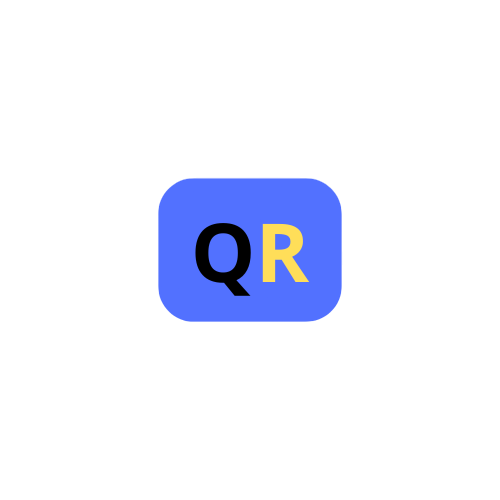
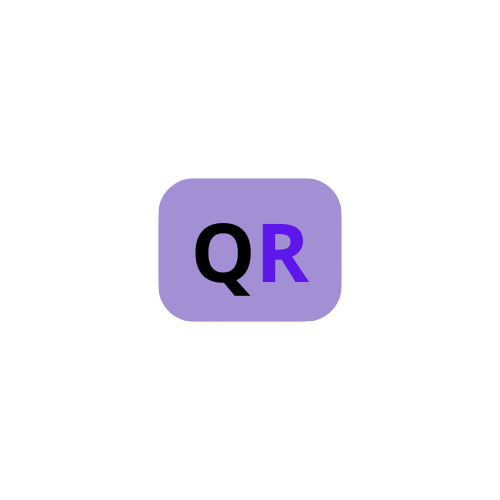
asistencia-final
se termina de implementar la estética de acuerdo a la paleta de colores de la aplicación.

Changed region(s): [[0.3, 0.33, 0.69, 0.66]]

diff --git a/src/app/pages/horario/horario.page.scss b/src/app/pages/horario/horario.page.scss
@@ -1,27 +1,29 @@
 ion-content {
-  --background: #000000;
+  --background: none;
 
   .schedule-container {
     padding: 16px;
 
     .class-card {
-      background-color: #1c1c1e;
-      border: 1px solid #3a3a3c;
-      color: #ffffff;
+      background-color: #1c1c1e; 
+      border: 1px solid #3a3a3c; 
+      color: #a390d4; 
       margin-bottom: 15px;
+      border-radius: 8px; 
 
       ion-card-header {
-        background-color: #2c2c2e;
+        background-color: #2c2c2e; 
         border-bottom: 1px solid #3a3a3c;
         padding: 10px;
 
         ion-card-title {
           font-size: 1.2rem;
           font-weight: bold;
+          color: #a390d4; 
 
           .in-progress {
             font-size: 1rem;
-            color: #50fa7b;
+            color: #a390d4; 
           }
         }
       }
@@ -38,11 +40,11 @@ ion-content {
           ion-icon {
             margin-right: 8px;
             font-size: 1rem;
-            color: #ebf300; //Color del icono :v
+            color: #a390d4; 
           }
 
           strong {
-            color: #ffffff;
+            color: #ffffff; 
           }
         }
       }
@@ -50,9 +52,13 @@ ion-content {
 
     .no-schedule {
       text-align: center;
-      color: #ffffff;
+      color: #ffffff; 
       font-size: 1.2rem;
       margin-top: 20px;
     }
+  }
+
+  ion-icon {
+    color: #a390d4; 
   }
 }

diff --git a/src/app/pages/ver-solicitudes/ver-solicitudes.page.ts b/src/app/pages/ver-solicitudes/ver-solicitudes.page.ts
@@ -1,5 +1,5 @@
 import { Component, OnInit } from '@angular/core';
-import { AuthService } from '../../services/auth.service'; // Asegúrate de importar el servicio AuthService
+import { AuthService } from '../../services/auth.service'; 
 
 @Component({
   selector: 'app-ver-solicitudes',
@@ -7,12 +7,12 @@ import { AuthService } from '../../services/auth.service'; // Asegúrate de impo
   styleUrls: ['./ver-solicitudes.page.scss'],
 })
 export class VerSolicitudesPage implements OnInit {
-  solicitudes: any[] = []; // Lista de solicitudes cargadas
+  solicitudes: any[] = []; 
 
   constructor(private authService: AuthService) {}
 
   ngOnInit() {
-    this.cargarSolicitudes(); // Cargar las solicitudes al iniciar
+    this.cargarSolicitudes(); 
   }
 
   cargarSolicitudes() {
@@ -25,8 +25,8 @@ export class VerSolicitudesPage implements OnInit {
   }
 
   limpiarSolicitudes() {
-    localStorage.removeItem('solicitudes'); // Borra todas las solicitudes del localStorage
-    this.solicitudes = []; // Limpia la lista mostrada
+    localStorage.removeItem('solicitudes'); 
+    this.solicitudes = []; 
     alert('Todas las solicitudes han sido eliminadas.');
   }
 }

diff --git a/src/app/pages/actualizar-datos/actualizar-datos.page.ts b/src/app/pages/actualizar-datos/actualizar-datos.page.ts
@@ -18,14 +18,15 @@ export class ActualizarDatosPage implements OnInit {
   ) {}
 
   async ngOnInit() {
-   
     this.userName = await this.storageService.get('userName');
     this.userEmail = await this.storageService.get('userEmail');
   }
 
-  
+  goBack() {
+    this.navCtrl.back();
+  }
+
   async saveChanges() {
-   
     if (!this.userEmail || !this.userName) {
       const toast = await this.toastController.create({
         message: 'Por favor, ingrese todos los campos.',
@@ -36,11 +37,9 @@ export class ActualizarDatosPage implements OnInit {
       return;
     }
 
-   
     await this.storageService.set('userName', this.userName);
     await this.storageService.set('userEmail', this.userEmail);
 
-   
     const toast = await this.toastController.create({
       message: 'Datos actualizados correctamente.',
       duration: 2000,
@@ -48,7 +47,6 @@ export class ActualizarDatosPage implements OnInit {
     });
     await toast.present();
 
-    
-    this.navCtrl.navigateBack('/home');
+    this.navCtrl.navigateBack('/login');
   }
 }

diff --git a/src/app/pages/solicitudes/solicitudes.page.html b/src/app/pages/solicitudes/solicitudes.page.html
@@ -1,5 +1,8 @@
 <ion-header>
   <ion-toolbar>
+    <ion-buttons slot="start">
+      <ion-back-button defaultHref="/home"></ion-back-button>
+    </ion-buttons>
     <ion-title>Enviar Solicitud</ion-title>
   </ion-toolbar>
 </ion-header>
@@ -11,7 +14,6 @@
     </ion-card-header>
     <ion-card-content>
       <form [formGroup]="solicitudForm" (ngSubmit)="enviarSolicitud()">
-       
         <ion-item>
           <ion-label>Sede</ion-label>
           <ion-select formControlName="sede" placeholder="Selecciona una sede">
@@ -27,7 +29,6 @@
           La sede es obligatoria.
         </ion-note>
 
-        
         <ion-item>
           <ion-label>Categoría</ion-label>
           <ion-select formControlName="categoria" placeholder="Selecciona una categoría">
@@ -43,7 +44,6 @@
           La categoría es obligatoria.
         </ion-note>
 
-        
         <ion-item>
           <ion-label>Servicio</ion-label>
           <ion-select formControlName="servicio" placeholder="Selecciona un servicio">

diff --git a/src/app/pages/asistencia/asistencia.page.scss b/src/app/pages/asistencia/asistencia.page.scss
@@ -1,5 +1,5 @@
 ion-content {
-  --background: #000000;
+  --background: none;
   
   .attendance-container {
     padding: 16px;
@@ -25,7 +25,7 @@ ion-content {
           ion-icon {
             margin-right: 10px;
             font-size: 1.4rem;
-            color: #ebf300; 
+            color: #a390d4; 
           }
         }
       }
@@ -42,7 +42,7 @@ ion-content {
           ion-icon {
             margin-right: 8px;
             font-size: 1rem;
-            color: #ebf300; 
+            color: #a390d4; 
           }
           
           strong {
@@ -54,7 +54,7 @@ ion-content {
       ion-button {
         margin-top: 15px;
         width: 100%; 
-        --background: #28a745; 
+        --background: #a390d4; 
         --color: #ffffff; 
         
         ion-icon {

diff --git a/src/app/app-routing.module.ts b/src/app/app-routing.module.ts
@@ -51,7 +51,8 @@ const routes: Routes = [
   },
   {
     path: 'solicitudes',
-    loadChildren: () => import('./pages/solicitudes/solicitudes.module').then( m => m.SolicitudesPageModule)
+    loadChildren: () => import('./pages/solicitudes/solicitudes.module').then( m => m.SolicitudesPageModule),
+    canActivate: [AuthGuard]
   },
 
   {
@@ -61,7 +62,8 @@ const routes: Routes = [
   },
   {
     path: 'ver-solicitudes',
-    loadChildren: () => import('./pages/ver-solicitudes/ver-solicitudes.module').then( m => m.VerSolicitudesPageModule)
+    loadChildren: () => import('./pages/ver-solicitudes/ver-solicitudes.module').then( m => m.VerSolicitudesPageModule),
+    canActivate: [AuthGuard]
   },
 
   {

diff --git a/src/app/pages/register/register.page.scss b/src/app/pages/register/register.page.scss
@@ -1,14 +1,13 @@
-/* Logo debajo del formulario */
 .logo-container {
     display: flex;
     justify-content: center;
     align-items: center;
-    margin-top: 20px; /* Distancia del logo desde el formulario */
+    margin-top: 20px; 
   }
   
   .logo-container img {
-    width: 50px; /* Ajusta el tamaño del logo según sea necesario */
-    height: auto; /* Mantiene la proporción de la imagen */
-    object-fit: contain; /* Asegura que el logo no se deforme */
+    width: 50px; 
+    height: auto; 
+    object-fit: contain; 
   }
   

diff --git a/src/app/pages/solicitudes/solicitudes.page.ts b/src/app/pages/solicitudes/solicitudes.page.ts
@@ -25,13 +25,10 @@ export class SolicitudesPage {
         nombreUsuario: localStorage.getItem('nombreUsuario') || 'Anónimo', 
       };
 
-      
       const solicitudesGuardadas = JSON.parse(localStorage.getItem('solicitudes') || '[]');
 
-      
       solicitudesGuardadas.push(solicitudData);
 
-      
       localStorage.setItem('solicitudes', JSON.stringify(solicitudesGuardadas));
 
       alert('Solicitud enviada correctamente');

diff --git a/src/app/pages/main/main.page.scss b/src/app/pages/main/main.page.scss
@@ -1,9 +1,9 @@
 :root {
-  --primary-color: #0056a0; /* Azul DUOC */
+  --primary-color: #0056a0; 
   --secondary-color: #ffffff;
-  --accent-color: #fcb900; /* Amarillo DUOC */
+  --accent-color: #fcb900; 
   --background-light: #f4f4f4;
-  --button-hover: #007acc; /* Azul claro para hover */
+  --button-hover: #007acc; 
   --dark-background: #222;
   --dark-toolbar-bg: #333;
   --dark-button-bg: #444;

diff --git a/src/app/pages/actualizar-datos/actualizar-datos.page.html b/src/app/pages/actualizar-datos/actualizar-datos.page.html
@@ -1,5 +1,10 @@
 <ion-header>
   <ion-toolbar>
+    <ion-buttons slot="start">
+      <ion-button (click)="goBack()">
+        <ion-icon slot="icon-only" name="arrow-back-outline"></ion-icon>
+      </ion-button>
+    </ion-buttons>
     <ion-title>Actualizar Datos</ion-title>
   </ion-toolbar>
 </ion-header>

diff --git a/src/app/pages/ver-solicitudes/ver-solicitudes.page.html b/src/app/pages/ver-solicitudes/ver-solicitudes.page.html
@@ -1,5 +1,8 @@
 <ion-header>
   <ion-toolbar>
+    <ion-buttons slot="start">
+      <ion-back-button defaultHref="/home"></ion-back-button>
+    </ion-buttons>
     <ion-title>Solicitudes</ion-title>
   </ion-toolbar>
 </ion-header>
